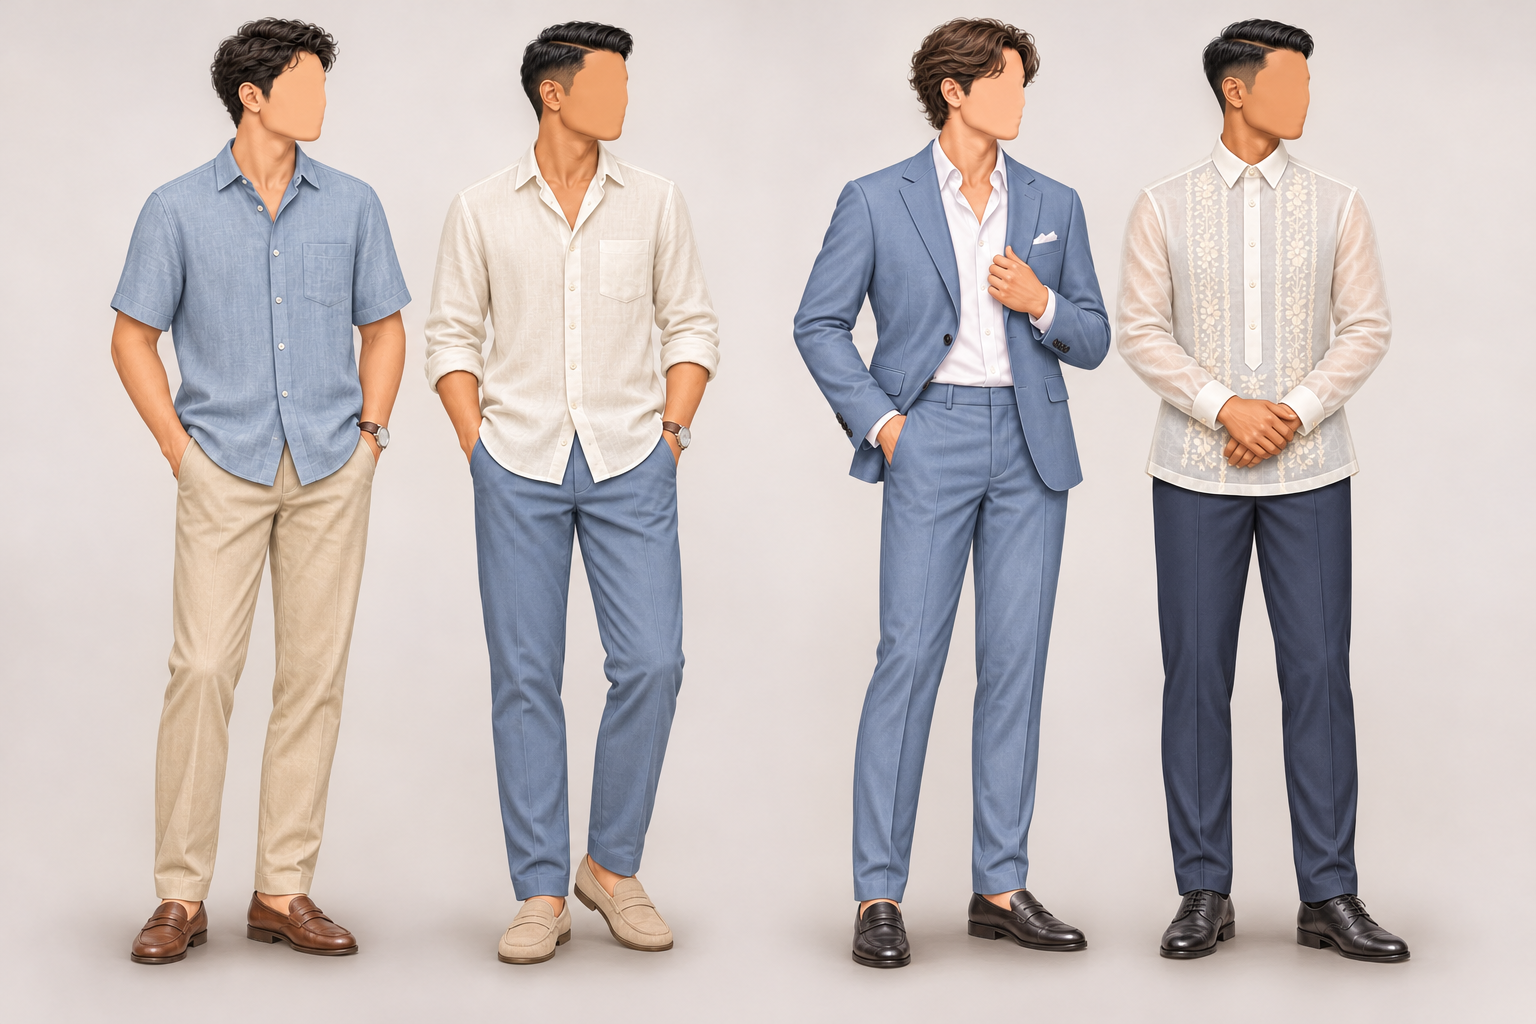
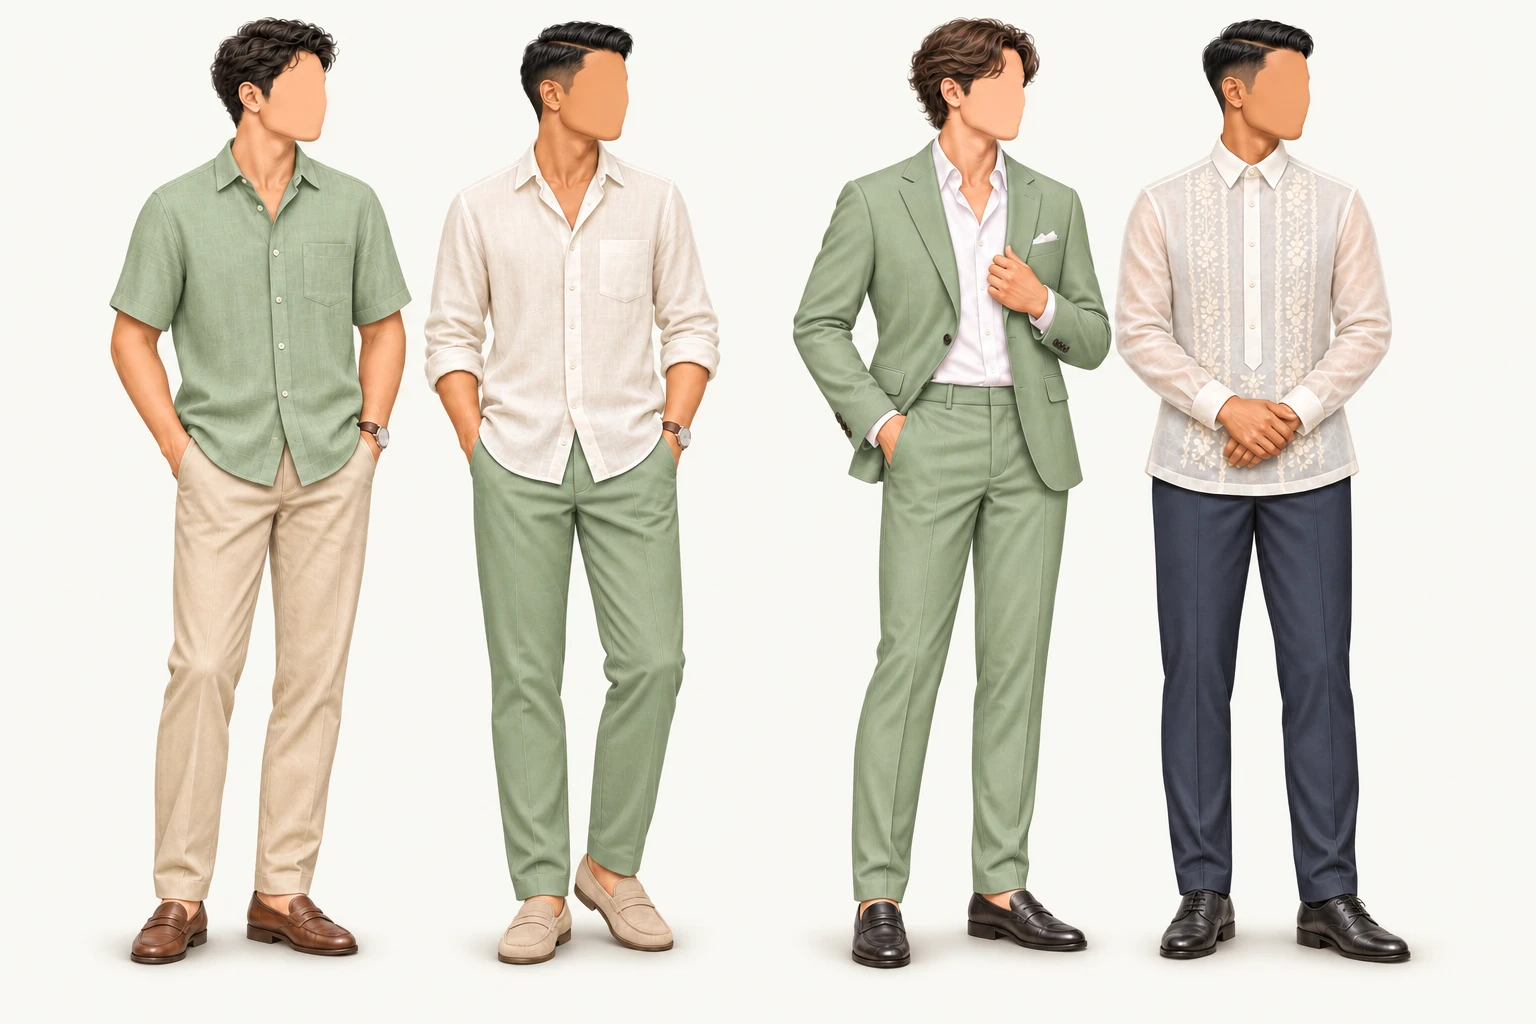
Updated the attire section

diff --git a/components/invitation/Attire.tsx b/components/invitation/Attire.tsx
@@ -9,30 +9,10 @@ import { ATTIRE, createSwatches } from "@/lib/attire";
 const swatches = createSwatches(COLORS);
 
 export default function Attire() {
-  const [selected, setSelected] = useState<(typeof swatches)[number]>(swatches[2]);
-  const isOffWhite = selected.name === "Off-white";
+  const [selected, setSelected] = useState<(typeof swatches)[number]>(swatches[1]);
 
   return (
     <section id="attire" className="attire-section section-pad" aria-labelledby="attire-title">
-      <svg className="attire-filter-defs" aria-hidden="true" focusable="false" xmlns="http://www.w3.org/2000/svg">
-        <filter id="attire-recolor" colorInterpolationFilters="sRGB">
-          <feColorMatrix in="SourceGraphic" type="matrix" values={`0 0 0 0 0  0 0 0 0 0  0 0 0 0 0  ${isOffWhite ? "-12 0 12" : "-4 0 4"} 0 0`} result="blue-mask" />
-          <feFlood floodColor={selected.color} floodOpacity={isOffWhite ? 1 : 0.78} result="selected-color" />
-          {isOffWhite && (
-            <>
-              <feColorMatrix in="SourceGraphic" type="saturate" values="0" result="fabric-shading" />
-              <feComponentTransfer in="fabric-shading" result="light-fabric">
-                <feFuncR type="linear" slope="0.75" intercept="0.25" />
-                <feFuncG type="linear" slope="0.75" intercept="0.25" />
-                <feFuncB type="linear" slope="0.75" intercept="0.25" />
-              </feComponentTransfer>
-              <feBlend in="selected-color" in2="light-fabric" mode="multiply" result="shaded-off-white" />
-            </>
-          )}
-          <feComposite in={isOffWhite ? "shaded-off-white" : "selected-color"} in2="blue-mask" operator="in" result="tinted-clothing" />
-          <feBlend in="tinted-clothing" in2="SourceGraphic" mode="normal" />
-        </filter>
-      </svg>
       <div className="section-wrap attire-layout">
         <div className="attire-copy">
           <span className="eyebrow">02 / What to wear</span>
@@ -45,9 +25,9 @@ export default function Attire() {
           <p className="swatch-feedback" aria-live="polite">Previewing <strong>{selected.name}</strong> attire</p>
         </div>
         <div className="attire-examples">
-          {ATTIRE.map(({ label, note, image, alt }) => (
+          {ATTIRE.map(({ label, note, images, alt }) => (
             <figure key={label}>
-              <div><Image src={image} alt={`${alt} previewed in ${selected.name.toLowerCase()}`} width={1536} height={1024} sizes="(min-width: 900px) 25vw, 50vw" className="recolor-attire" /></div>
+              <div><Image key={selected.variant} src={images[selected.variant]} alt={`${alt} previewed in ${selected.name.toLowerCase()}`} width={1536} height={1024} unoptimized /></div>
               <figcaption><strong>{label}</strong><span>{note}</span></figcaption>
             </figure>
           ))}

diff --git a/app/globals.css b/app/globals.css
@@ -137,7 +137,6 @@ html { scroll-behavior: smooth; }
 
 /* Attire */
 .wedding-site .attire-section { background: var(--paper); }
-.wedding-site .attire-filter-defs { position: absolute; width: 0; height: 0; overflow: hidden; }
 .wedding-site .attire-layout { display: grid; grid-template-columns: .8fr 1.2fr; align-items: center; gap: 65px; }
 .wedding-site .attire-copy { max-width: 470px; }
 .wedding-site .attire-type { margin: 35px 0 18px; border-left: 2px solid var(--gold); padding-left: 18px; font-family: var(--font-serif), Georgia, serif; font-size: 27px; font-style: italic; }
@@ -152,10 +151,9 @@ html { scroll-behavior: smooth; }
 .wedding-site .swatch-feedback { margin-top: 20px; color: var(--muted); font-size: 11px; }
 .wedding-site .swatch-feedback strong { color: var(--ink); font-weight: 500; }
 .wedding-site .attire-examples { display: grid; grid-template-columns: 1fr 1fr; gap: 18px; }
-.wedding-site .attire-examples figure { background: #e0d6d3; }
-.wedding-site .attire-examples figure > div { display: flex; align-items: center; aspect-ratio: 3/4; overflow: hidden; }
-.wedding-site .attire-examples img { width: 100%; height: 100%; object-fit: contain; transition: filter .3s ease; }
-.wedding-site .attire-examples img.recolor-attire { filter: url(#attire-recolor); }
+.wedding-site .attire-examples figure { background: var(--paper); }
+.wedding-site .attire-examples figure > div { display: flex; align-items: center; aspect-ratio: 3/2; overflow: hidden; }
+.wedding-site .attire-examples img { display: block; width: 100%; height: 100%; object-fit: contain; }
 .wedding-site .attire-examples figcaption { display: flex; flex-direction: column; min-height: 105px; padding: 19px 20px; background: white; }
 .wedding-site .attire-examples figcaption strong { font-family: var(--font-serif), Georgia, serif; font-size: 24px; font-weight: 400; }
 .wedding-site .attire-examples figcaption span { margin-top: 6px; color: var(--muted); font-size: 11px; line-height: 1.5; }
@@ -310,7 +308,6 @@ html { scroll-behavior: smooth; }
   .wedding-site .venue-map { min-height: 420px; }
   .wedding-site .venue-note { padding-bottom: 10px; }
   .wedding-site .attire-copy { max-width: none; }
-  .wedding-site .attire-examples figure > div { aspect-ratio: 1/1; }
   .wedding-site .details-intro > p { max-width: none; }
   .wedding-site .reply-note { margin-top: 30px; }
   .wedding-site .rsvp-monogram { display: none; }

diff --git a/lib/attire.ts b/lib/attire.ts
@@ -1,27 +1,37 @@
 export type ColorPalette = Record<50 | 100 | 200 | 300 | 400 | 500 | 600 | 700 | 800 | 900, string>;
 
 const SWATCH_DEFINITIONS = [
-  { name: "Off-white", shade: 50 },
-  { name: "Sage green", shade: 300 },
-  { name: "Olive green", shade: 400 },
-  { name: "Moss green", shade: 500 },
+  { name: "Off-white", shade: 50, variant: "off-white" },
+  { name: "Sage green", shade: 300, variant: "sage" },
+  { name: "Olive green", shade: 400, variant: "olive" },
+  { name: "Moss green", shade: 500, variant: "moss" },
 ] as const;
 
 export function createSwatches(colors: ColorPalette) {
-  return SWATCH_DEFINITIONS.map(({ name, shade }) => ({ name, color: colors[shade] }));
+  return SWATCH_DEFINITIONS.map(({ name, shade, variant }) => ({ name, color: colors[shade], variant }));
 }
 
 export const ATTIRE = [
   {
     label: "Gentlemen",
     note: "A collared shirt or barong with trousers; a lightweight jacket is optional.",
-    image: "/attire-men.webp",
-    alt: "Three examples of semi-formal menswear, including a barong Tagalog",
+    images: {
+      "off-white": "/attire-men-off-white.webp",
+      sage: "/attire-men.webp?v=sage-artwork",
+      olive: "/attire-men-olive.webp",
+      moss: "/attire-men-moss.webp",
+    },
+    alt: "Four examples of casual and semi-formal menswear, including a barong Tagalog",
   },
   {
     label: "Ladies",
     note: "A relaxed dress or coordinated separates with comfortable shoes.",
-    image: "/attire-women.webp",
-    alt: "Three examples of semi-formal dresses",
+    images: {
+      "off-white": "/attire-women-off-white.webp",
+      sage: "/attire-women.webp?v=sage-artwork",
+      olive: "/attire-women-olive.webp",
+      moss: "/attire-women-moss.webp",
+    },
+    alt: "Four examples of casual and semi-formal dresses and separates",
   },
 ] as const;
